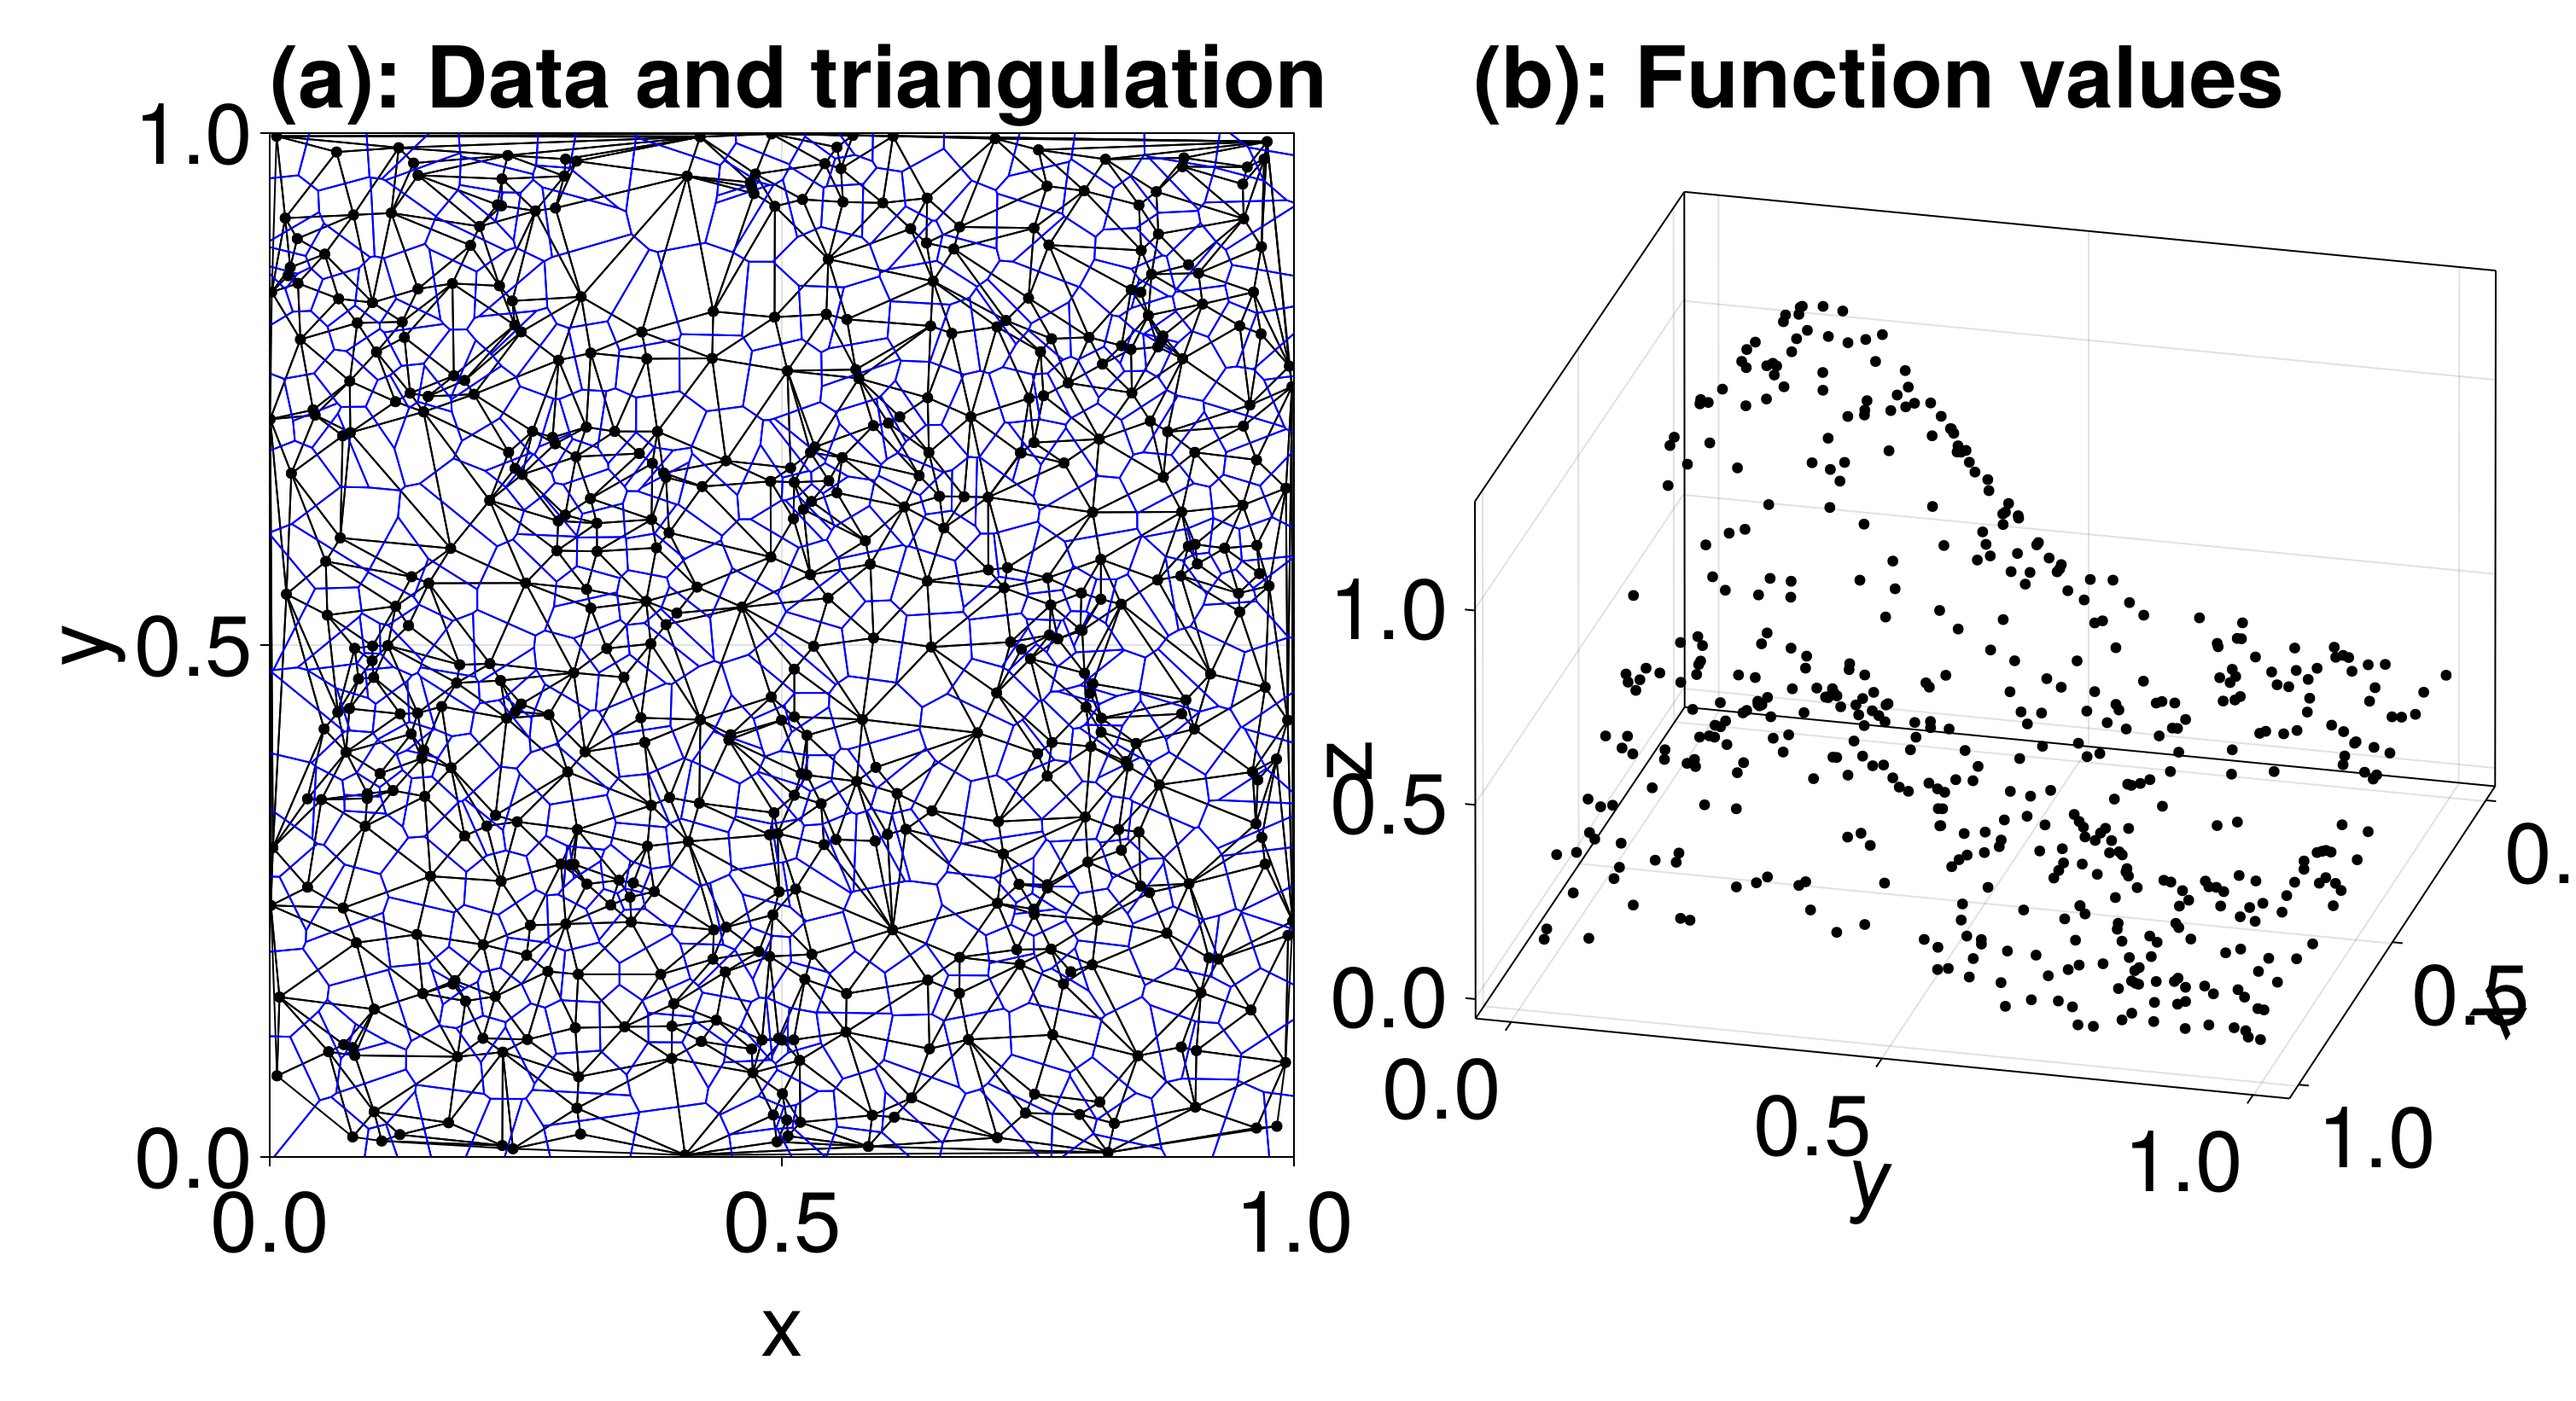
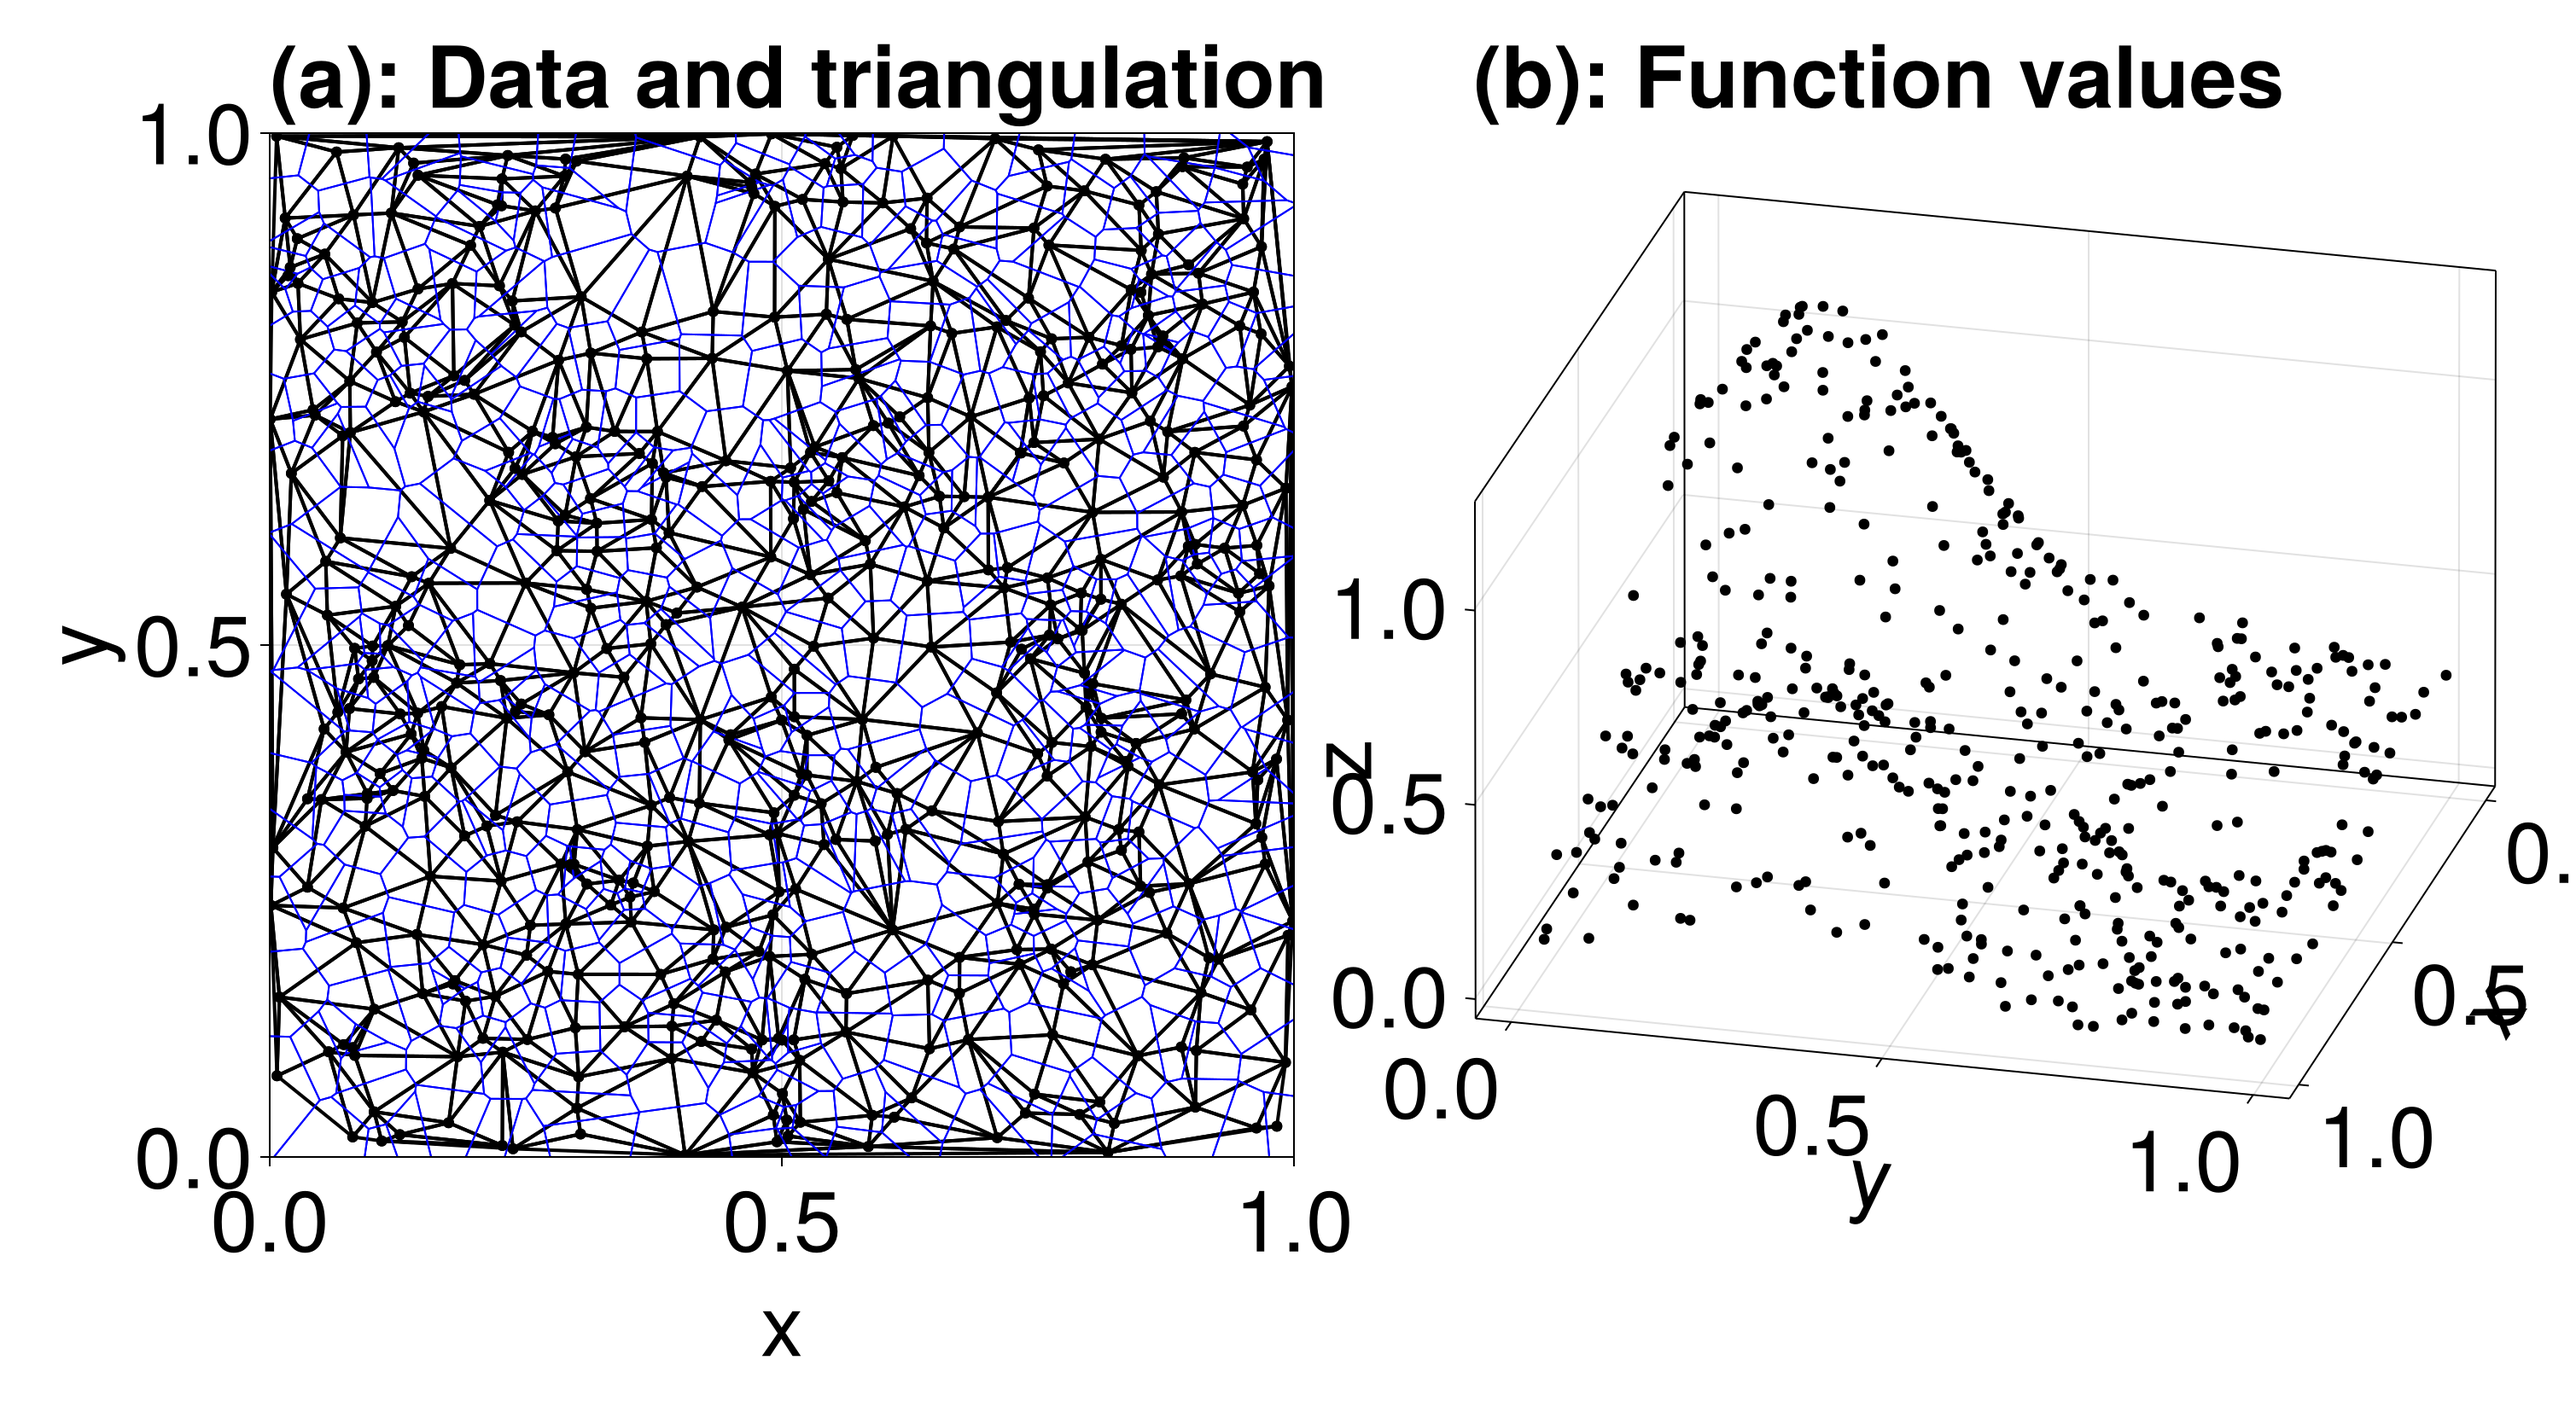
Fix tests

Changed region(s): [[0.0934, 0.0932, 0.4983, 0.8386]]

diff --git a/docs/src/swiss.md b/docs/src/swiss.md
@@ -108,8 +108,6 @@ function update_boundary(boundary_points, data_sites)
     return boundary_points, data_sites, boundary_nodes
 end
 boundary_points, data_sites, boundary_nodes = update_boundary(boundary_points, data_sites)
-tri = triangulate(data_sites, boundary_nodes=boundary_nodes)
-triangles = [T[j] for T in each_solid_triangle(tri), j in 1:3]
 ```
 
 Next, before, we plot, let us downsample the data. We do this since the data set is quite large, so when we interpolate it'll be useful to have fewer data points for the purpose of this example.
@@ -134,15 +132,10 @@ Now let's look at the data.
 colorrange = (0, 4)
 levels = LinRange(colorrange..., 40)
 fig = Figure(fontsize=24)
-ax1 = Axis3(fig[1, 1], xlabel="Longitude", ylabel="Latitude", zlabel="Elevation (km)", width=600, height=400, azimuth=0.9, title="(a): Original height data (n = $(length(elevation_data)))", titlealign=:left)
-mesh!(ax1, data, triangles, color=elevation_data, colorrange=colorrange)
-ax2 = Axis(fig[1, 2], xlabel="Longitude", ylabel="Latitude", width=600, height=400, title="(b): Original height data (n = $(length(elevation_data)))", titlealign=:left)
-tf = tricontourf!(ax2, tri, elevation_data, color=elevation_data, levels=levels)
-
-ax3 = Axis3(fig[2, 1], xlabel="Longitude", ylabel="Latitude", zlabel="Elevation (km)", width=600, height=400, azimuth=0.9, title="(c): Downsampled height data (n = $(length(ds_elevation_data)))", titlealign=:left)
-mesh!(ax3, ds_data, ds_triangles, color=ds_elevation_data, colorrange=colorrange)
-ax4 = Axis(fig[2, 2], xlabel="Longitude", ylabel="Latitude", width=600, height=400, title="(d): Downsampled height data (n = $(length(ds_elevation_data)))", titlealign=:left)
-tricontourf!(ax4, ds_tri, ds_elevation_data, color=ds_elevation_data, levels=levels)
+ax1 = Axis3(fig[1, 1], xlabel="Longitude", ylabel="Latitude", zlabel="Elevation (km)", width=600, height=400, azimuth=0.9, title="(c): Downsampled height data (n = $(length(ds_elevation_data)))", titlealign=:left)
+mesh!(ax1, ds_data, ds_triangles, color=ds_elevation_data, colorrange=colorrange)
+ax2 = Axis(fig[1, 2], xlabel="Longitude", ylabel="Latitude", width=600, height=400, title="(d): Downsampled height data (n = $(length(ds_elevation_data)))", titlealign=:left)
+tf = tricontourf!(ax2, ds_tri, ds_elevation_data, levels=levels)
 Colorbar(fig[1:2, 3], tf)
 resize_to_layout!(fig)
 ```
@@ -184,7 +177,7 @@ hiyoshi_vals = interpolant(x, y; method=Hiyoshi(2), parallel=true)
 Let's look at our results for each of these methods.
 
 ```julia
-query_tri = triangulate([x'; y'])
+query_tri = triangulate([x'; y']; randomise=false)
 query_triangles = [T[j] for T in each_solid_triangle(query_tri), j in 1:3]
 function plot_results!(fig, i1, j1, i2, j2, x, y, xg, yg, vals, title1, title2, query_triangles, query_tri, a, b, c, d, e, f, nx, ny)
     ax = Axis3(fig[i1, j1], xlabel="Longitude", ylabel="Latitude", zlabel="Elevation (km)", width=600, height=400, azimuth=0.9, title=title1, titlealign=:left)
@@ -193,7 +186,7 @@ function plot_results!(fig, i1, j1, i2, j2, x, y, xg, yg, vals, title1, title2, 
     ylims!(ax, c, d)
     zlims!(ax, e, f)
     ax = Axis(fig[i2, j2], xlabel="Longitude", ylabel="Latitude", width=600, height=400, title=title2, titlealign=:left)
-    contourf!(ax, xg, yg, reshape(vals, (nx, ny)), color=vals, levels=levels)
+    contourf!(ax, xg, yg, reshape(vals, (nx, ny)), levels=levels)
     lines!(ax, [get_point(query_tri, i) for i in get_convex_hull_vertices(query_tri)], color=:red, linewidth=4, linestyle=:dash)
     lines!(ax, ds_boundary_points, color=:white, linewidth=4)
     xlims!(ax, a, b)
@@ -215,7 +208,7 @@ function plot_results(sibson_vals, sibson_1_vals, laplace_vals, triangle_vals, n
     ylims!(ax, c, d)
     zlims!(ax, e, f)
     ax = Axis(fig[4, 4], xlabel="Longitude", ylabel="Latitude", width=600, height=400, title="(o): Original height data", titlealign=:left)
-    tricontourf!(ax, tri, elevation_data, color=elevation_data, levels=levels)
+    tricontourf!(ax, tri, elevation_data, levels=levels)
     xlims!(ax, a, b)
     ylims!(ax, c, d)
     Colorbar(fig[1:4, 5], m1)
@@ -223,7 +216,7 @@ function plot_results(sibson_vals, sibson_1_vals, laplace_vals, triangle_vals, n
     return fig
 end
 e, f = 0.0, 4.5
-fig = plot_results(sibson_vals, sibson_1_vals, laplace_vals, triangle_vals, nearest_vals, farin_vals, hiyoshi_vals, query_triangles, interpolant, a, b, c, d, e, f, nx, ny, data, triangles, elevation_data, tri)
+fig = plot_results(sibson_vals, sibson_1_vals, laplace_vals, triangle_vals, nearest_vals, farin_vals, hiyoshi_vals, query_triangles, interpolant, a, b, c, d, e, f, nx, ny, ds_data, ds_triangles, ds_elevation_data, ds_tri)
 ```
 
 ```@raw html
@@ -246,7 +239,7 @@ triangle_vals_p = interpolant(x, y; method=Triangle(), parallel=true, project=fa
 nearest_vals_p = interpolant(x, y; method=Nearest(), parallel=true, project=false)
 farin_vals_p = interpolant(x, y; method=Farin(), parallel=true, project=false)
 hiyoshi_vals_p = interpolant(x, y; method=Hiyoshi(2), parallel=true, project=false)
-fig = plot_results(sibson_vals_p, sibson_1_vals_p, laplace_vals_p, triangle_vals_p, nearest_vals_p, farin_vals_p, hiyoshi_vals_p, query_triangles, interpolant, a, b, c, d, e, f, nx, ny, data, triangles, elevation_data, tri)
+fig = plot_results(sibson_vals_p, sibson_1_vals_p, laplace_vals_p, triangle_vals_p, nearest_vals_p, farin_vals_p, hiyoshi_vals_p, query_triangles, interpolant, a, b, c, d, e, f, nx, ny, ds_data, ds_triangles, ds_elevation_data, ds_tri)
 ```
 
 ```@raw html
@@ -270,7 +263,7 @@ triangle_vals_p[exterior_idx] .= Inf
 nearest_vals_p[exterior_idx] .= Inf
 farin_vals_p[exterior_idx] .= Inf
 hiyoshi_vals_p[exterior_idx] .= Inf
-fig = plot_results(sibson_vals_p, sibson_1_vals_p, laplace_vals_p, triangle_vals_p, nearest_vals_p, farin_vals_p, hiyoshi_vals_p, query_triangles, interpolant, a, b, c, d, e, f, nx, ny, data, triangles, elevation_data, tri)
+fig = plot_results(sibson_vals_p, sibson_1_vals_p, laplace_vals_p, triangle_vals_p, nearest_vals_p, farin_vals_p, hiyoshi_vals_p, query_triangles, interpolant, a, b, c, d, e, f, nx, ny, ds_data, ds_triangles, ds_elevation_data, ds_tri)
 ```
 
 ```@raw html

diff --git a/docs/src/differentiation.md b/docs/src/differentiation.md
@@ -33,7 +33,7 @@ Here is the surface of $f$ along with its derivatives.
 using CairoMakie
 function plot_f(fig, x, y, vals, title, i, show_3d=true, zlabel="z")
     ax = Axis(fig[1, i], xlabel="x", ylabel="y", width=600, height=600, title=title, titlealign=:left)
-    c = contourf!(ax, x, y, vals, color=vals, colormap=:viridis,  extendhigh=:auto)
+    c = contourf!(ax, x, y, vals, colormap=:viridis,  extendhigh=:auto)
     if show_3d
         ax = Axis3(fig[2, i], xlabel="x", ylabel="y", zlabel=zlabel, width=600, height=600, title=" ", titlealign=:left, azimuth=0.49)
         surface!(ax, x, y, vals, color=vals, colormap=:viridis)
@@ -85,7 +85,7 @@ vorn = voronoi(tri)
 fig = Figure(fontsize=36, size=(1800, 600))
 ax = Axis(fig[1, 1], xlabel="x", ylabel="y", width=600, height=600, title="(a): Data and triangulation", titlealign=:left)
 scatter!(ax, x, y, color=:black, markersize=9)
-triplot!(ax, tri, color=:black, linewidth=2, show_convex_hull=false)
+triplot!(ax, tri, strokecolor=:black, strokewidth=2, show_convex_hull=false)
 voronoiplot!(ax, vorn, strokecolor=:blue)
 xlims!(ax, 0, 1)
 ylims!(ax, 0, 1)
@@ -123,7 +123,7 @@ using LinearAlgebra
 function plot_f2(fig, x, y, vals, title, i, tri, levels, show_3d=true, zlabel="z")
     triangles = [T[j] for T in each_solid_triangle(tri), j in 1:3]
     ax = Axis(fig[1, i], xlabel="x", ylabel="y", width=600, height=600, title=title, titlealign=:left)
-    c = tricontourf!(ax, x, y, vals, color=vals, triangulation=triangles', colormap=:viridis, extendhigh=:auto, levels=levels)
+    c = tricontourf!(ax, x, y, vals, triangulation=triangles', colormap=:viridis, extendhigh=:auto, levels=levels)
     if show_3d
         ax = Axis3(fig[2, i], xlabel="x", ylabel="y", zlabel=zlabel, width=600, height=600, title=" ", titlealign=:left, azimuth=0.49)
         mesh!(ax, hcat(x, y, vals), triangles, color=vals, colormap=:viridis, colorrange=extrema(levels))
@@ -306,7 +306,7 @@ function rrmserr(z, ẑ)
 end
 function plot_f2(fig, x, y, vals, title, i, levels, show_3d=true, zlabel="z")
     ax = Axis(fig[1, i], xlabel="x", ylabel="y", width=600, height=600, title=title, titlealign=:left)
-    c = contourf!(ax, x, y, vals, color=vals, colormap=:viridis, extendhigh=:auto, levels=levels)
+    c = contourf!(ax, x, y, vals, colormap=:viridis, extendhigh=:auto, levels=levels)
     if show_3d
         ax = Axis3(fig[2, i], xlabel="x", ylabel="y", zlabel=zlabel, width=600, height=600, title=" ", titlealign=:left, azimuth=0.49)
         surface!(ax, x, y, vals, color=vals, colormap=:viridis, colorrange=extrema(levels))

diff --git a/README.md b/README.md
@@ -15,10 +15,8 @@ Here is a quick example of how to use the package, demonstrating the available m
 ```julia
 using NaturalNeighbours
 using CairoMakie
-using StableRNGs
 
 ## The data 
-rng = StableRNG(123)
 f = (x, y) -> sin(x * y) - cos(x - y) * exp(-(x - y)^2)
 x = vec([(i - 1) / 9 for i in (1, 3, 4, 5, 8, 9, 10), j in (1, 2, 3, 5, 6, 7, 9, 10)])
 y = vec([(j - 1) / 9 for i in (1, 3, 4, 5, 8, 9, 10), j in (1, 2, 3, 5, 6, 7, 9, 10)])
@@ -44,12 +42,12 @@ hiyoshi_vals = itp(_x, _y; method=Hiyoshi(2))
 ## Plot 
 function plot_2d(fig, i, j, title, vals, xg, yg, x, y, show_scatter=true)
     ax = Axis(fig[i, j], xlabel="x", ylabel="y", width=600, height=600, title=title, titlealign=:left)
-    contourf!(ax, xg, yg, reshape(vals, (length(xg), length(yg))), color=vals, colormap=:viridis, levels=-1:0.05:0, extendlow=:auto, extendhigh=:auto)
+    contourf!(ax, xg, yg, reshape(vals, (length(xg), length(yg))), colormap=:viridis, levels=-1:0.05:0, extendlow=:auto, extendhigh=:auto)
     show_scatter && scatter!(ax, x, y, color=:red, markersize=14)
 end
 function plot_3d(fig, i, j, title, vals, xg, yg)
     ax = Axis3(fig[i, j], xlabel="x", ylabel="y", width=600, height=600, title=title, titlealign=:left)
-    surface!(ax, xg, yg, reshape(vals, (length(xg), length(yg))), color=vals, colormap=:viridis, levels=-1:0.05:0, extendlow=:auto, extendhigh=:auto)
+    surface!(ax, xg, yg, reshape(vals, (length(xg), length(yg))), color=vals, colormap=:viridis)
 end
 
 all_vals = (sibson_vals, triangle_vals, laplace_vals, sibson_1_vals, nearest_vals, farin_vals, hiyoshi_vals, exact)

diff --git a/docs/src/interpolation.md b/docs/src/interpolation.md
@@ -151,7 +151,7 @@ Now we can plot.
 ```julia
 function plot_itp(fig, x, y, vals, title, i, show_data_sites, itp, xd=nothing, yd=nothing, show_3d=true, levels=-0.1:0.05:0.3)
     ax = Axis(fig[1, i], xlabel="x", ylabel="y", width=600, height=600, title=title, titlealign=:left)
-    c = contourf!(ax, x, y, vals, color=vals, colormap=:viridis, levels=levels, extendhigh=:auto)
+    c = contourf!(ax, x, y, vals, colormap=:viridis, levels=levels, extendhigh=:auto)
     show_data_sites && scatter!(ax, xd, yd, color=:red, markersize=9)
     tri = itp.triangulation
     ch_idx = get_convex_hull_vertices(tri)
